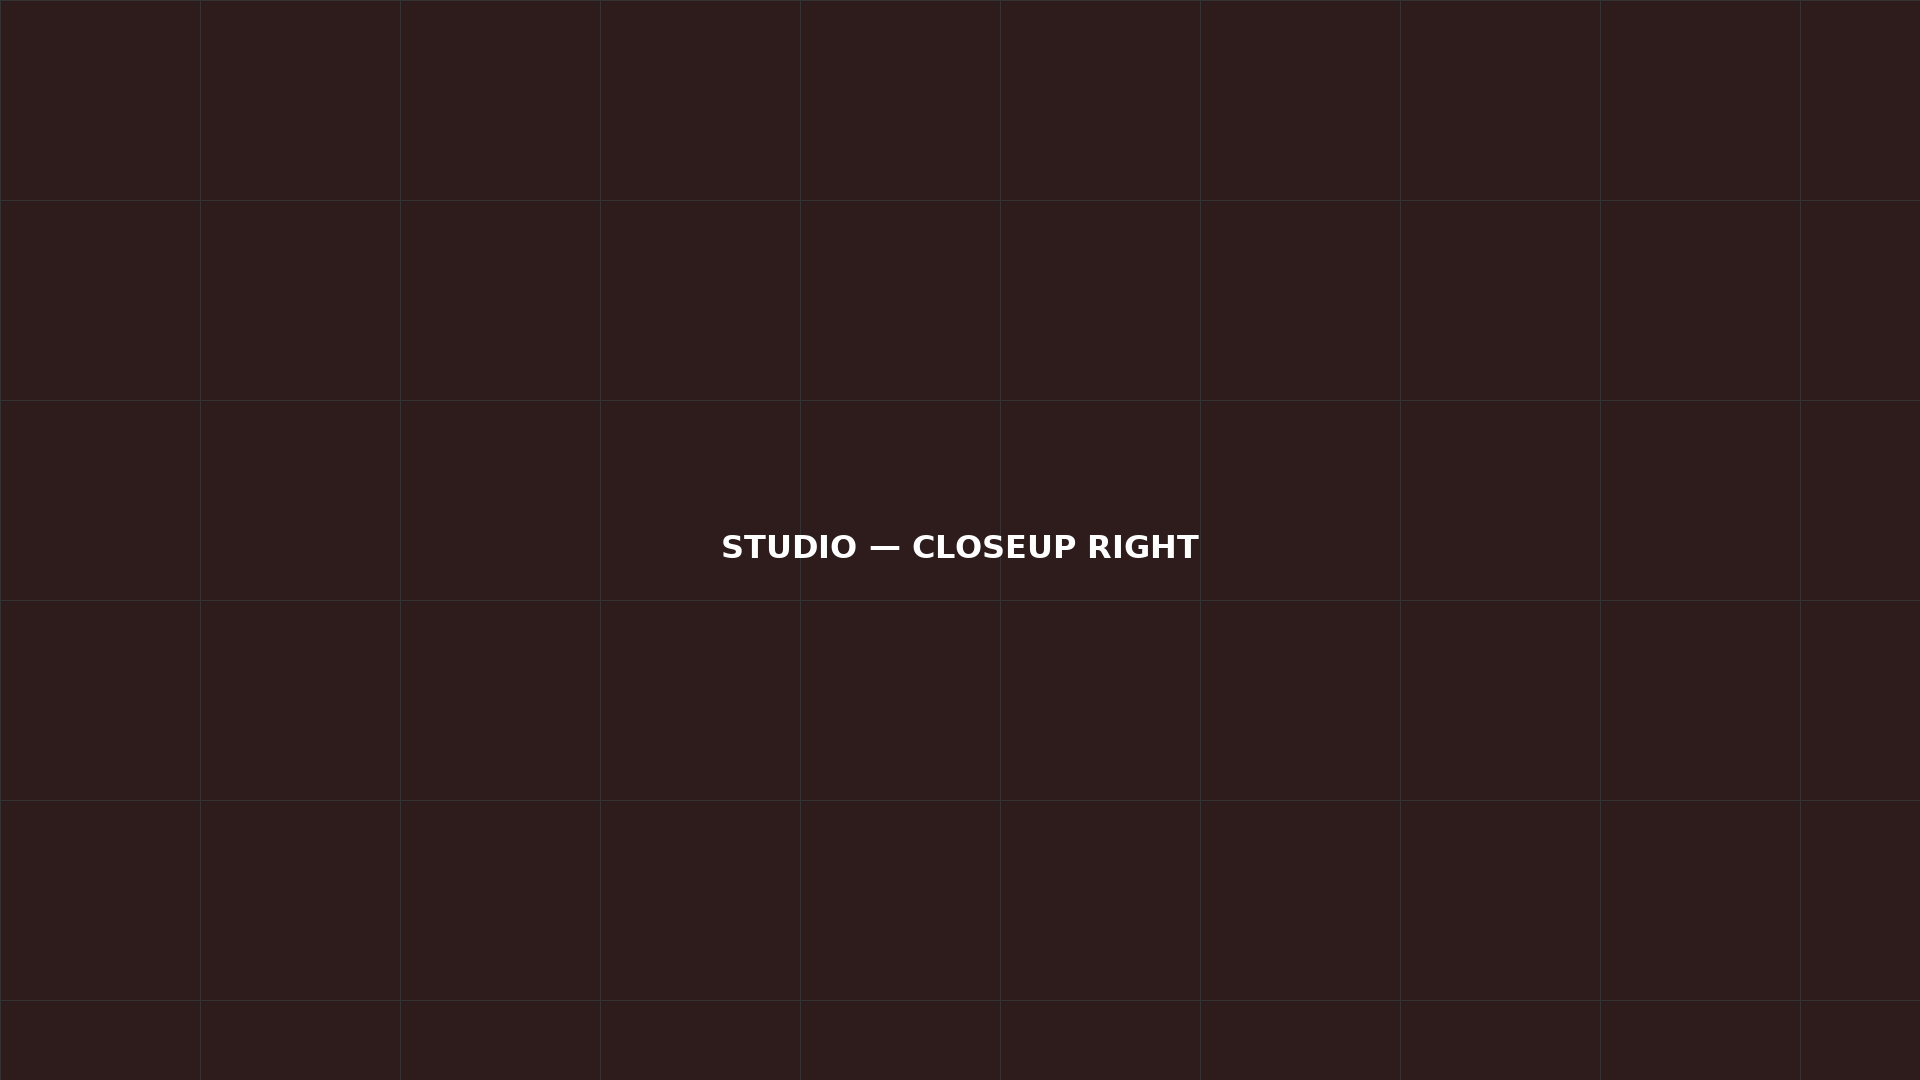
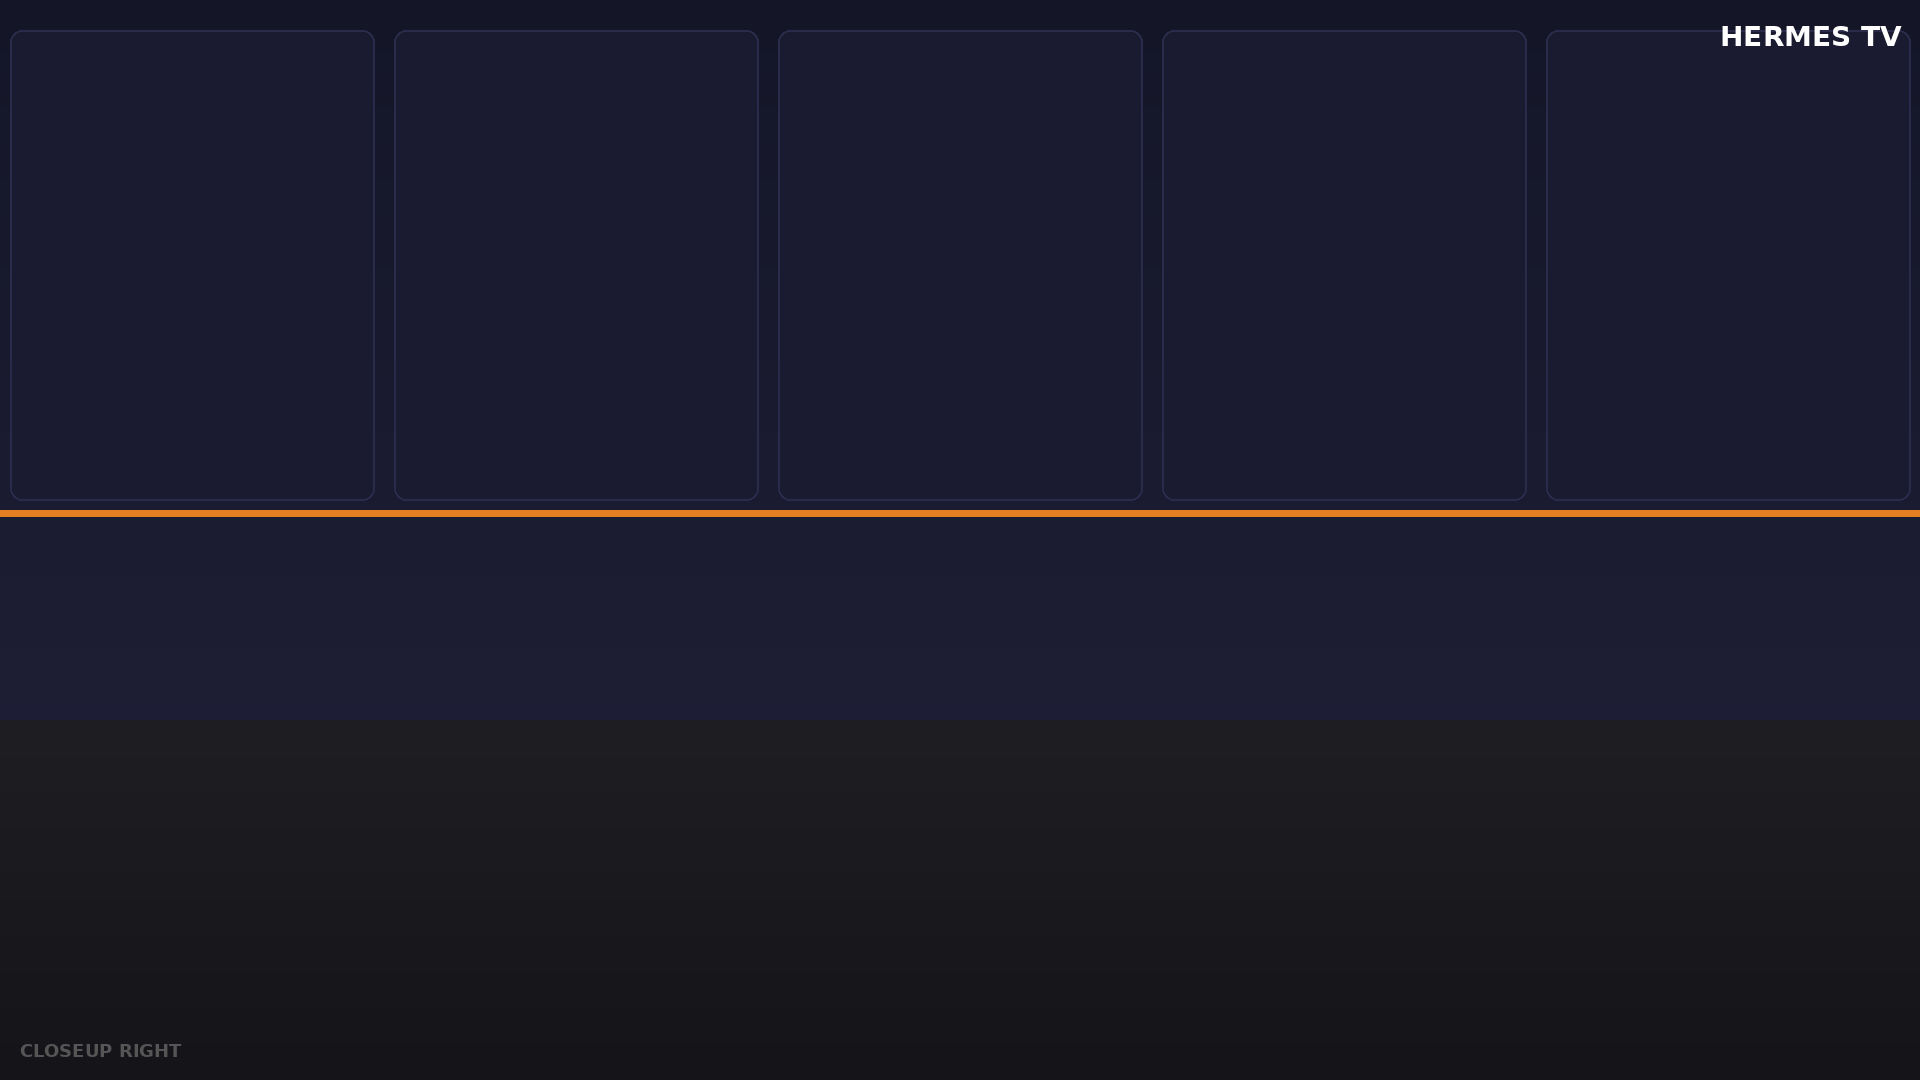
Add stickman placeholder assets for visual pipeline testing
3 characters (alex, maya, rolo) as stickman news anchors with
idle/talking states, desk, name tags. 4 studio backgrounds with
panels, accent strip, and floor reflections.

diff --git a/visual/create_test_assets.py b/visual/create_test_assets.py
@@ -1,21 +1,21 @@
-"""Generate placeholder test assets with Pillow.
+"""Generate stickman placeholder assets with Pillow.
 
 Run: python visual/create_test_assets.py
 Creates PNG placeholders in assets/ for testing the full pipeline without real art.
+Characters are drawn as stickmen with distinct colors and features.
 """
 
 import json
+import math
 from pathlib import Path
 
 from PIL import Image, ImageDraw, ImageFont
 
 ASSETS_DIR = Path(__file__).resolve().parent.parent / "assets"
 
-# Character dimensions
 CHAR_W, CHAR_H = 400, 700
 BG_W, BG_H = 1920, 1080
 
-# Per-character configs with shot-type positions
 CHARACTER_CONFIGS = {
     "alex": {
         "label": "Alex",
@@ -28,8 +28,11 @@ CHARACTER_CONFIGS = {
             "closeup_right": [0.5, 0.85, 1.0],
             "twoshot": [0.3, 0.85, 0.8],
         },
-        "idle_color": "#1a5276",
-        "talking_color": "#2e86c1",
+        "skin": "#F4C27F",
+        "shirt": "#2980b9",
+        "tie": "#e74c3c",
+        "hair": "#4a3728",
+        "hair_style": "short",
     },
     "maya": {
         "label": "Maya",
@@ -42,8 +45,11 @@ CHARACTER_CONFIGS = {
             "closeup_right": [0.5, 0.85, 1.0],
             "twoshot": [0.7, 0.85, 0.8],
         },
-        "idle_color": "#7b241c",
-        "talking_color": "#e74c3c",
+        "skin": "#D4A574",
+        "shirt": "#8e44ad",
+        "tie": None,
+        "hair": "#1a1a2e",
+        "hair_style": "long",
     },
     "rolo": {
         "label": "Rolo",
@@ -56,14 +62,16 @@ CHARACTER_CONFIGS = {
             "closeup_right": [0.5, 0.85, 1.0],
             "twoshot": [0.5, 0.85, 0.8],
         },
-        "idle_color": "#1e8449",
-        "talking_color": "#27ae60",
+        "skin": "#E8B88A",
+        "shirt": "#27ae60",
+        "tie": "#f39c12",
+        "hair": "#c0c0c0",
+        "hair_style": "bald",
     },
 }
 
 
 def _get_font(size: int = 36):
-    """Try to load a TTF font, fall back to default."""
     for path in [
         "/usr/share/fonts/truetype/dejavu/DejaVuSans-Bold.ttf",
         "/usr/share/fonts/truetype/freefont/FreeSansBold.ttf",
@@ -73,12 +81,162 @@ def _get_font(size: int = 36):
     return ImageFont.load_default()
 
 
-def _draw_label(draw: ImageDraw.ImageDraw, text: str, w: int, h: int):
-    """Draw centered label text."""
-    font = _get_font(32)
-    bbox = draw.textbbox((0, 0), text, font=font)
-    tw, th = bbox[2] - bbox[0], bbox[3] - bbox[1]
-    draw.text(((w - tw) // 2, (h - th) // 2), text, fill="white", font=font)
+def _draw_stickman(draw: ImageDraw.ImageDraw, cfg: dict, talking: bool):
+    """Draw a stickman news anchor."""
+    cx = CHAR_W // 2  # center x
+    skin = cfg["skin"]
+    shirt = cfg["shirt"]
+    hair_color = cfg["hair"]
+    line_w = 4
+
+    # --- Head (circle) ---
+    head_r = 55
+    head_cy = 120
+    draw.ellipse(
+        [cx - head_r, head_cy - head_r, cx + head_r, head_cy + head_r],
+        fill=skin, outline="#333", width=line_w
+    )
+
+    # --- Hair ---
+    hs = cfg["hair_style"]
+    if hs == "short":
+        # Flat top hair
+        draw.arc(
+            [cx - head_r - 2, head_cy - head_r - 12, cx + head_r + 2, head_cy + 10],
+            start=180, end=0, fill=hair_color, width=14
+        )
+    elif hs == "long":
+        # Flowing hair on sides
+        draw.arc(
+            [cx - head_r - 2, head_cy - head_r - 8, cx + head_r + 2, head_cy + 10],
+            start=180, end=0, fill=hair_color, width=12
+        )
+        # Side hair strands
+        draw.line(
+            [cx - head_r, head_cy, cx - head_r - 10, head_cy + 70],
+            fill=hair_color, width=10
+        )
+        draw.line(
+            [cx + head_r, head_cy, cx + head_r + 10, head_cy + 70],
+            fill=hair_color, width=10
+        )
+    # bald: no hair drawn
+
+    # --- Eyes ---
+    eye_y = head_cy - 8
+    eye_sep = 22
+    for ex in [cx - eye_sep, cx + eye_sep]:
+        draw.ellipse([ex - 6, eye_y - 6, ex + 6, eye_y + 6], fill="white", outline="#333", width=2)
+        draw.ellipse([ex - 3, eye_y - 3, ex + 3, eye_y + 3], fill="#333")
+
+    # --- Mouth ---
+    mouth_y = head_cy + 25
+    if talking:
+        # Open mouth (ellipse)
+        draw.ellipse(
+            [cx - 18, mouth_y - 10, cx + 18, mouth_y + 14],
+            fill="#222", outline="#333", width=2
+        )
+    else:
+        # Closed smile
+        draw.arc(
+            [cx - 16, mouth_y - 8, cx + 16, mouth_y + 8],
+            start=0, end=180, fill="#333", width=3
+        )
+
+    # --- Neck ---
+    neck_top = head_cy + head_r
+    neck_bot = neck_top + 25
+    draw.line([cx, neck_top, cx, neck_bot], fill=skin, width=14)
+
+    # --- Body/torso (trapezoid for suit jacket) ---
+    shoulder_w = 90
+    waist_w = 60
+    torso_top = neck_bot
+    torso_bot = torso_top + 160
+    draw.polygon(
+        [
+            (cx - shoulder_w, torso_top),
+            (cx + shoulder_w, torso_top),
+            (cx + waist_w, torso_bot),
+            (cx - waist_w, torso_bot),
+        ],
+        fill=shirt, outline="#333", width=line_w
+    )
+
+    # --- Tie ---
+    if cfg["tie"]:
+        tie_color = cfg["tie"]
+        # Knot
+        draw.polygon(
+            [(cx - 8, torso_top), (cx + 8, torso_top), (cx + 12, torso_top + 20), (cx - 12, torso_top + 20)],
+            fill=tie_color
+        )
+        # Tie body
+        draw.polygon(
+            [(cx - 12, torso_top + 20), (cx + 12, torso_top + 20), (cx + 6, torso_top + 100), (cx - 6, torso_top + 100)],
+            fill=tie_color, outline="#333", width=2
+        )
+
+    # --- Arms ---
+    arm_top = torso_top + 10
+
+    # Left arm: resting on desk
+    draw.line(
+        [cx - shoulder_w, arm_top, cx - shoulder_w - 50, torso_bot - 20],
+        fill=shirt, width=16
+    )
+    # Left hand
+    draw.ellipse(
+        [cx - shoulder_w - 60, torso_bot - 32, cx - shoulder_w - 36, torso_bot - 8],
+        fill=skin, outline="#333", width=2
+    )
+
+    # Right arm
+    if talking:
+        # Gesturing up
+        draw.line(
+            [cx + shoulder_w, arm_top, cx + shoulder_w + 40, arm_top - 40],
+            fill=shirt, width=16
+        )
+        draw.ellipse(
+            [cx + shoulder_w + 30, arm_top - 54, cx + shoulder_w + 54, arm_top - 30],
+            fill=skin, outline="#333", width=2
+        )
+    else:
+        # Resting
+        draw.line(
+            [cx + shoulder_w, arm_top, cx + shoulder_w + 50, torso_bot - 20],
+            fill=shirt, width=16
+        )
+        draw.ellipse(
+            [cx + shoulder_w + 36, torso_bot - 32, cx + shoulder_w + 60, torso_bot - 8],
+            fill=skin, outline="#333", width=2
+        )
+
+    # --- News desk (bottom bar) ---
+    desk_y = torso_bot + 10
+    draw.rounded_rectangle(
+        [20, desk_y, CHAR_W - 20, CHAR_H - 30],
+        radius=8, fill="#2c3e50", outline="#1a252f", width=3
+    )
+    # Desk highlight strip
+    draw.rectangle([30, desk_y + 4, CHAR_W - 30, desk_y + 12], fill="#34495e")
+
+
+def _draw_name_tag(draw: ImageDraw.ImageDraw, name: str):
+    """Draw a name tag at the bottom of the desk."""
+    font = _get_font(22)
+    bbox = draw.textbbox((0, 0), name, font=font)
+    tw = bbox[2] - bbox[0]
+    x = (CHAR_W - tw) // 2
+    y = CHAR_H - 70
+    # Tag background
+    draw.rounded_rectangle(
+        [x - 12, y - 4, x + tw + 12, y + 28],
+        radius=4, fill="#e74c3c"
+    )
+    draw.text((x, y), name, fill="white", font=font)
 
 
 def create_character(name: str, cfg: dict):
@@ -86,24 +244,14 @@ def create_character(name: str, cfg: dict):
     char_dir = ASSETS_DIR / "characters" / name
     char_dir.mkdir(parents=True, exist_ok=True)
 
-    idle_color = cfg["idle_color"]
-    talking_color = cfg["talking_color"]
-
-    for state, color in [("idle", idle_color), ("talking", talking_color)]:
+    for state in ("idle", "talking"):
         img = Image.new("RGBA", (CHAR_W, CHAR_H), (0, 0, 0, 0))
         draw = ImageDraw.Draw(img)
-        draw.rounded_rectangle(
-            [40, 40, CHAR_W - 40, CHAR_H - 40],
-            radius=30,
-            fill=color,
-            outline="white",
-            width=3,
-        )
-        _draw_label(draw, f"{name}\n{state}", CHAR_W, CHAR_H)
+        _draw_stickman(draw, cfg, talking=(state == "talking"))
+        _draw_name_tag(draw, cfg["label"].upper())
         img.save(char_dir / f"{state}.png")
         print(f"  Created {char_dir / f'{state}.png'}")
 
-    # config.json with positions
     config = {
         "label": cfg["label"],
         "position_x": cfg["position_x"],
@@ -115,38 +263,70 @@ def create_character(name: str, cfg: dict):
     print(f"  Created {char_dir / 'config.json'}")
 
 
-def create_background(name: str, color: str, label: str):
-    """Create a background PNG."""
+def _draw_studio_bg(draw: ImageDraw.ImageDraw, label: str, accent: str):
+    """Draw a TV studio background."""
+    # Dark gradient base
+    for y in range(BG_H):
+        r = int(20 + (y / BG_H) * 15)
+        g = int(22 + (y / BG_H) * 12)
+        b = int(40 + (y / BG_H) * 20)
+        draw.line([(0, y), (BG_W, y)], fill=(r, g, b))
+
+    # Back wall panels
+    panel_w = BG_W // 5
+    for i in range(5):
+        x0 = i * panel_w + 10
+        draw.rounded_rectangle(
+            [x0, 30, x0 + panel_w - 20, BG_H // 2 - 40],
+            radius=12, fill="#1a1a30", outline="#2a2a4a", width=2
+        )
+
+    # Accent strip (channel color bar)
+    strip_y = BG_H // 2 - 30
+    draw.rectangle([0, strip_y, BG_W, strip_y + 6], fill=accent)
+
+    # Floor with subtle reflection
+    floor_top = BG_H * 2 // 3
+    for y in range(floor_top, BG_H):
+        progress = (y - floor_top) / (BG_H - floor_top)
+        c = int(30 - progress * 10)
+        draw.line([(0, y), (BG_W, y)], fill=(c, c, c + 5))
+
+    # "HERMES TV" bug in corner
+    font = _get_font(28)
+    draw.text((BG_W - 200, 20), "HERMES TV", fill="#ffffff40", font=font)
+
+    # Shot label (subtle)
+    font_sm = _get_font(18)
+    draw.text((20, BG_H - 40), label, fill="#555555", font=font_sm)
+
+
+def create_background(name: str, accent: str, label: str):
+    """Create a studio background PNG."""
     bg_dir = ASSETS_DIR / "backgrounds"
     bg_dir.mkdir(parents=True, exist_ok=True)
 
-    img = Image.new("RGB", (BG_W, BG_H), color)
+    img = Image.new("RGB", (BG_W, BG_H), "#141428")
     draw = ImageDraw.Draw(img)
-    # Grid lines for visual reference
-    for x in range(0, BG_W, 200):
-        draw.line([(x, 0), (x, BG_H)], fill="#333333", width=1)
-    for y in range(0, BG_H, 200):
-        draw.line([(0, y), (BG_W, y)], fill="#333333", width=1)
-    _draw_label(draw, label, BG_W, BG_H)
+    _draw_studio_bg(draw, label, accent)
+
     path = bg_dir / f"{name}.png"
     img.save(path)
     print(f"  Created {path}")
 
 
 def main():
-    print("[test_assets] Generating placeholder assets...")
+    print("[test_assets] Generating stickman placeholder assets...")
 
-    # Characters
     for name, cfg in CHARACTER_CONFIGS.items():
         create_character(name, cfg)
 
-    # Backgrounds
-    create_background("studio_wide", "#1c1c2e", "STUDIO — WIDE")
-    create_background("studio_closeup_left", "#1c2e1c", "STUDIO — CLOSEUP LEFT")
-    create_background("studio_closeup_right", "#2e1c1c", "STUDIO — CLOSEUP RIGHT")
-    create_background("studio_twoshot", "#2e2e1c", "STUDIO — TWO SHOT")
+    create_background("studio_wide", "#e74c3c", "WIDE")
+    create_background("studio_closeup_left", "#3498db", "CLOSEUP LEFT")
+    create_background("studio_closeup_right", "#e67e22", "CLOSEUP RIGHT")
+    create_background("studio_twoshot", "#2ecc71", "TWO SHOT")
 
-    print("[test_assets] Done! Assets in:", ASSETS_DIR)
+    print(f"[test_assets] Done! Assets in: {ASSETS_DIR}")
 
 
 if __name__ == "__main__":
